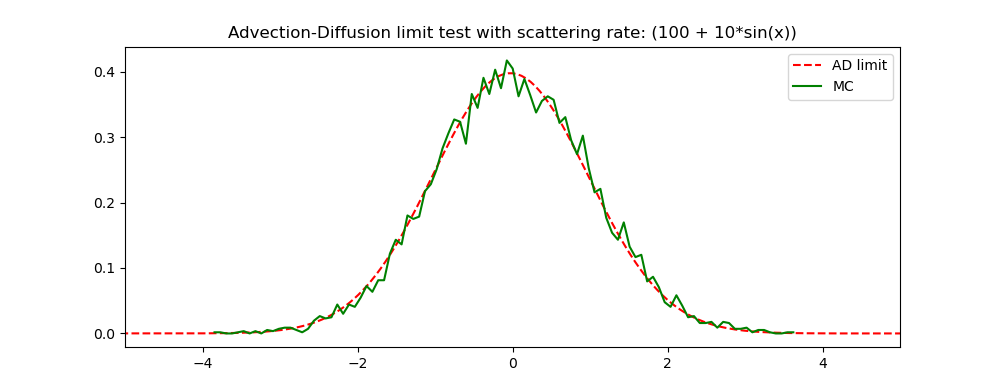
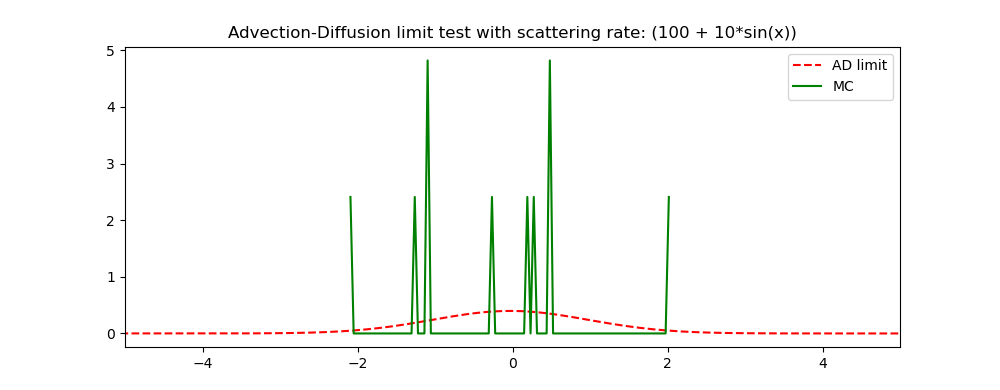
added combined data to plot

diff --git a/examples/MPIExample.py b/examples/MPIExample.py
@@ -47,7 +47,8 @@ if __name__ == "__main__":
     nproc = comm.Get_size()
 
     eSource = float(sys.argv[1])
-    NB_PARTICLES = int(int(sys.argv[2])/nproc)
+    NB_PARTICLES_PER_PROC = int(int(sys.argv[2])/nproc)
+    NB_PARTICLES = int(NB_PARTICLES_PER_PROC*nproc)
 
     if myrank == 0:
         storage1 = solvePDE(eSource, muInit, sigmaInit, stoppingPower, scatteringRate1, scatteringRate1_dx, varH)
@@ -62,18 +63,18 @@ if __name__ == "__main__":
     pointSourceSim = DiffusionPointSource(minEnergy=0.0, rngSeed=SEED, eSource=eSource, loc=muInit, std=sigmaInit)
 
     # Set up estimator and particle
-    trackEndEstimatorx1 = TrackEndEstimator(simDomain, NB_PARTICLES, setting='x')
+    trackEndEstimatorx1 = TrackEndEstimator(simDomain, NB_PARTICLES_PER_PROC, setting='x')
     particle1 = DiffusionTestParticle(Es=scatteringRate1)
     particleTracer1 = AnalogParticleTracer(particle=particle1, simOptions=pointSourceSim, simDomain=simDomain)
 
     print(f'Proc {myrank} starting simulation.')
 
     # --- Run simulation ---
-    particleTracer1(nbParticles=NB_PARTICLES, estimators=trackEndEstimatorx1, logAmount=1000000)
+    particleTracer1(nbParticles=NB_PARTICLES_PER_PROC, estimators=trackEndEstimatorx1, logAmount=1000000)
 
     # gather estimator
     if myrank == 0:
-        recvbuf = np.empty((nproc, NB_PARTICLES), dtype=float)
+        recvbuf = np.empty((nproc, NB_PARTICLES_PER_PROC), dtype=float)
     else:
         recvbuf = None  # type: ignore
 
@@ -81,12 +82,14 @@ if __name__ == "__main__":
 
     # --- Plot result ---
     if myrank == 0:
+        assert recvbuf is not None
+
         # Advection-diffusion solution 1
         ADres1 = storage1.data[-1]  # type:ignore
         xres = np.linspace(-xmax, xmax, xbins, endpoint=False)
 
         # MC solution 1
-        xdensity1 = trackEndEstimatorx1.scoreMatrix
+        xdensity1 = recvbuf.reshape((NB_PARTICLES, ))
         binVal1, binEdge1 = np.histogram(xdensity1, bins=100, density=True)
         binCenter1 = (binEdge1[:-1] + binEdge1[1:])/2.0
 
